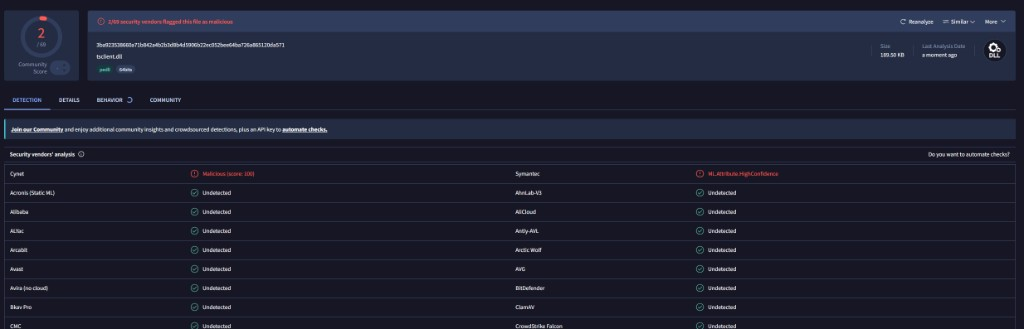
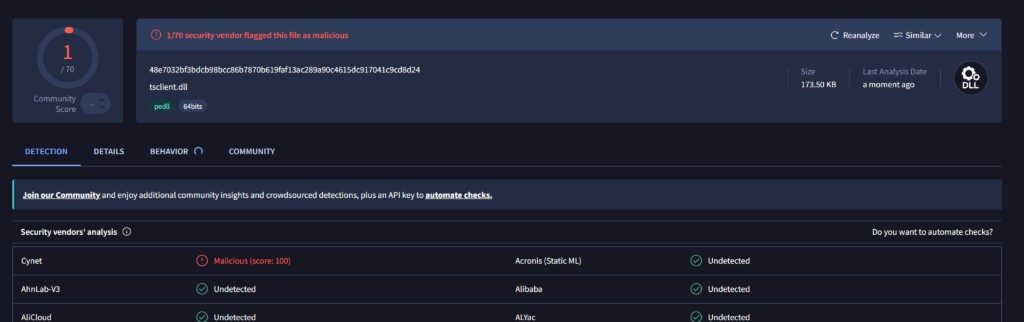
Update VirusTotal detection proof for pipe-exfil build
Replace screenshot and document 1/70 Cynet flag on tsclient.dll.

diff --git a/README.md b/README.md
@@ -160,6 +160,22 @@ Produces `tsclient.dll` for injection into mstsc.
 
 ---
 
+## Detection proof
+
+Built `tsclient.dll` from this repo and submitted it to VirusTotal. One of 70 engines flagged it: **Cynet** scored it malicious. The rest were clean on that scan.
+
+| Field | Value |
+|---|---|
+| File | `tsclient.dll` |
[1 lines of base64/hex data omitted]
+| Size | 173.50 KB (x64 DLL) |
+
+![VirusTotal detection result for tsclient.dll](assets/detection-proof.png)
+
+Detection outcomes vary by build flags, code changes, signatures, and scanner updates. Included for transparency and defensive research context only.
+
+---
+
 ## Related
 
 - Original technique: [RdpThief by 0x09AL](https://github.com/0x09AL/RdpThief)